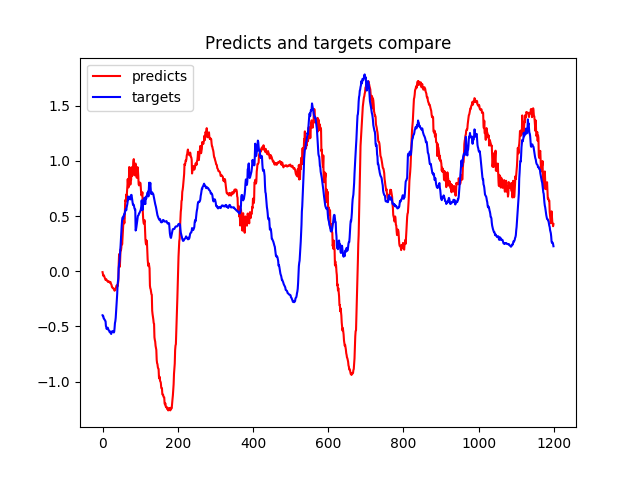
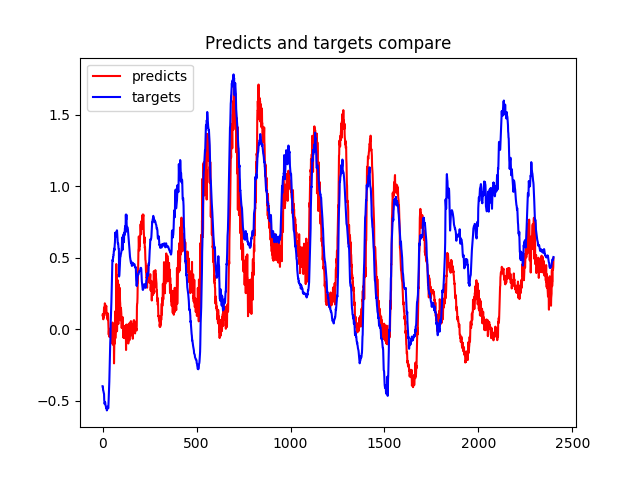
add learning rate decay

diff --git a/forecasting.py b/forecasting.py
@@ -4,6 +4,7 @@ import numpy as np
 from keras import layers
 from keras.models import Model
 from matplotlib import pyplot as plt
+from keras import optimizers
 
 if sys.platform == 'win32':
     data_dir = 'C:\Boyuan\Machine Learning\Datasets\jena_climate_2009_2016'
@@ -69,20 +70,20 @@ train_sqn = generator(float_data,
                       lookback=lookback,
                       delay=delay,
                       min_index=0,
-                      max_index=300000,
+                      max_index=250000,
                       shuffle=False,
                       step=step,
                       batch_size=batch_size)
-'''
+
 val_sqn = generator(float_data,
                     lookback=lookback,
                     delay=delay,
-                    min_index=200001,
+                    min_index=250001,
                     max_index=300000,
                     shuffle=False,
                     step=step,
                     batch_size=batch_size)
-'''
+
 test_sqn = generator(float_data,
                     lookback=lookback,
                     delay=delay,
@@ -92,7 +93,7 @@ test_sqn = generator(float_data,
                     step=step,
                     batch_size=batch_size)
 
-#val_steps = (300000 - 200001 - lookback)
+#val_steps = (300000 - 250001 - lookback)
 val_steps = 500
 
 test_steps = (len(float_data) - 300001 - lookback)
@@ -101,40 +102,43 @@ test_steps = (len(float_data) - 300001 - lookback)
 
 inputs = layers.Input(shape=(None, float_data.shape[-1]))
 
-'''
+
 # one layer LSTM
 #gru = layers.GRU(32, dropout=0.2, recurrent_dropout=0.5)(inputs)
 rnn = layers.LSTM(32)(inputs)
 outputs = layers.Dense(1)(rnn)
+
 '''
 # stacked LSTM
-lstm_layer1 = layers.GRU(32, return_sequences=True)(inputs)
-lstm_layer2 = layers.GRU(64, activation='relu')(lstm_layer1)
+lstm_layer1 = layers.GRU(32, return_sequences=True, dropout=0.2, recurrent_dropout=0.5,)(inputs)
+lstm_layer2 = layers.GRU(32, activation='relu', dropout=0.2, recurrent_dropout=0.5)(lstm_layer1)
 outputs = layers.Dense(1)(lstm_layer2)
+'''
 
 model = Model(inputs=inputs, outputs=outputs)
-model.compile(optimizer='rmsprop',
+RMSprop = optimizers.RMSprop(lr=0.00001, decay=0.001)
+model.compile(optimizer=RMSprop,
               loss='mae',
               metrics=['mae'])
 history = model.fit_generator(train_sqn,
                     steps_per_epoch=500,
-                    epochs=20,
-                    workers=4, max_queue_size=10)
-                    #validation_data=val_sqn,
-                    #validation_steps=val_steps)
+                    epochs=80,
+                    workers=4, max_queue_size=10,
+                    validation_data=val_sqn,
+                    validation_steps=val_steps)
 
 
 # Save training and validation result
 
 loss = history.history['loss']
-#val_loss = history.history['val_loss']
+val_loss = history.history['val_loss']
 
 epochs = range(1, len(loss) + 1)
 
 plt.figure()
 
 plt.plot(epochs, loss, 'r', label='Training loss')
-#plt.plot(epochs, val_loss, 'b', label='Validation loss')
+plt.plot(epochs, val_loss, 'b', label='Validation loss')
 plt.title('Training and validation loss')
 plt.legend()
 
@@ -142,7 +146,7 @@ plt.savefig('Training and validation loss.png')
 
 
 # Evaluate the training model
-scoreSeg = model.evaluate_generator(test_sqn, steps=2000, workers=4)
+scoreSeg = model.evaluate_generator(test_sqn, steps=1000, workers=4)
 print("mean_absolute_error = ", scoreSeg)
 
 # Compare predicts and targets
@@ -155,7 +159,7 @@ test_sqn = generator(float_data,
                     step=step,
                     batch_size=batch_size)
 
-predicts = model.predict_generator(test_sqn, steps=100, workers=4)
+predicts = model.predict_generator(test_sqn, steps=200, workers=4)
 
 test_sqn = generator(float_data,
                     lookback=lookback,
@@ -167,17 +171,17 @@ test_sqn = generator(float_data,
                     batch_size=batch_size)
 
 targets = []
-for step in range(100):
+for step in range(200):
     sample_batch, target_batch = next(test_sqn)
     targets.append(target_batch)
 
 targets = np.hstack(targets)
 
-epochs = range(0, 1200)
+epochs = range(0, 2400)
 
 plt.figure()
-plt.plot(epochs, predicts[:1200], 'r', label='predicts')
-plt.plot(epochs, targets[:1200], 'b', label='targets')
+plt.plot(epochs, predicts[:2400], 'r', label='predicts')
+plt.plot(epochs, targets[:2400], 'b', label='targets')
 plt.title('Predicts and targets compare')
 plt.legend()
 
